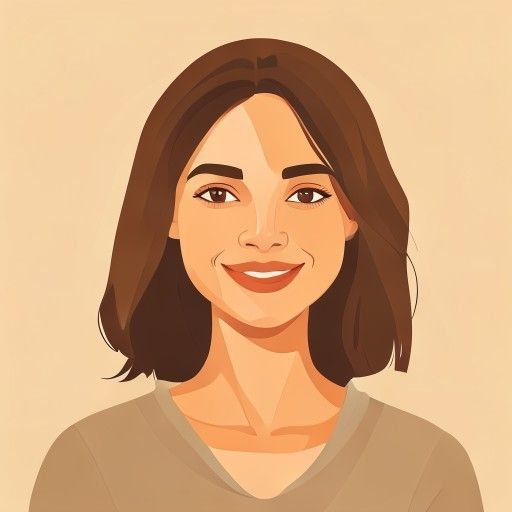
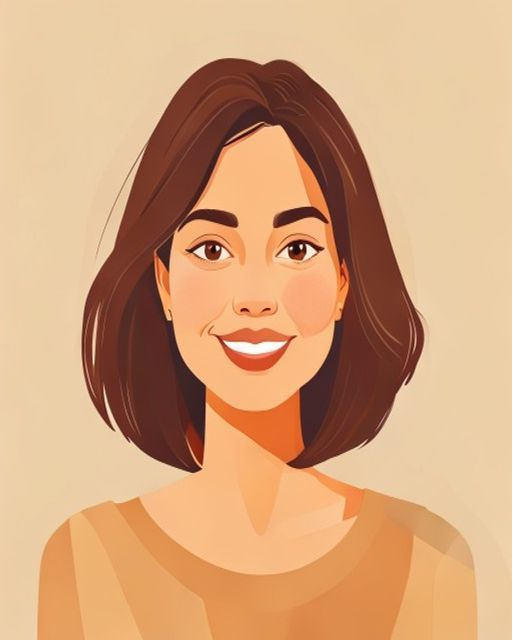
AgentAvatar: tight-crop faces, branded shirt overlay, idle+speaking animations
- Regenerated male/female avatars with tighter face crop (512x640)
- SVG shirt layer: blazer-style with lapel depth using darker gradient
- Idle animation: gentle float (translateY -4px, 3.5s)
- Speaking animation: micro-pulse scale + glow ring boxShadow
- Speaking waveform: 5 staggered bars on shirt area (size >= 64)
- Logo overlay on shirt (size >= 72)

diff --git a/components/avatar/AgentAvatar.tsx b/components/avatar/AgentAvatar.tsx
@@ -3,11 +3,10 @@
 /**
  * AgentAvatar — avatar compuesto en capas:
  *   1. Fondo con tinte de marca
- *   2. Imagen de cara (IA-generada o placeholder DiceBear)
- *   3. Ropa SVG con brandColor
- *   4. Logo del cliente encima de la ropa (opcional)
- *
- * Reemplazar MALE_FACE_URL / FEMALE_FACE_URL con las imágenes definitivas.
+ *   2. Imagen de cara (flat illustration PNG)
+ *   3. Ropa SVG con brandColor (cubre la remera neutral de la imagen)
+ *   4. Logo del cliente sobre la ropa (opcional, size >= 72)
+ *   5. Animación idle (float) + speaking (glow ring + waveform)
  */
 
 interface AgentAvatarProps {
@@ -30,6 +29,10 @@ function adjust(hex: string, amt: number): string {
     .map((v) => v.toString(16).padStart(2, "0"))
     .join("")}`;
 }
+function hexAlpha(hex: string, a: number) {
+  const { r, g, b } = hexToRgb(hex);
+  return `rgba(${r},${g},${b},${a})`;
+}
 
 const MALE_FACE_URL   = "/avatars/male.png";
 const FEMALE_FACE_URL = "/avatars/female.png";
@@ -43,16 +46,30 @@ export default function AgentAvatar({
   className  = "",
 }: AgentAvatarProps) {
   const gid       = brandColor.replace(/[^a-f0-9]/gi, "").slice(0, 6) || "brand";
-  const shirtDark = adjust(brandColor, -40);
+  const shirtDark = adjust(brandColor, -45);
   const bgLight   = adjust(brandColor, 196);
-  const bgMid     = adjust(brandColor, 180);
+  const bgMid     = adjust(brandColor, 182);
   const showLogo  = !!logoUrl && size >= 72;
+  const showWave  = isSpeaking && size >= 64;
   const faceUrl   = gender === "female" ? FEMALE_FACE_URL : MALE_FACE_URL;
+
+  // Glow ring cuando habla
+  const glowShadow = isSpeaking
+    ? `0 0 0 ${Math.round(size * 0.04)}px ${hexAlpha(brandColor, 0.5)}, 0 0 ${Math.round(size * 0.25)}px ${hexAlpha(brandColor, 0.35)}`
+    : undefined;
 
   return (
     <div
       className={`relative inline-flex items-center justify-center rounded-full overflow-hidden ${className}`}
-      style={{ width: size, height: size, flexShrink: 0 }}
+      style={{
+        width: size,
+        height: size,
+        flexShrink: 0,
+        borderRadius: "50%",
+        boxShadow: glowShadow,
+        animation: isSpeaking ? "aa-pulse 1.4s ease-in-out infinite" : "aa-float 3.5s ease-in-out infinite",
+        transition: "box-shadow 0.4s ease",
+      }}
     >
       <svg
         viewBox="0 0 100 100"
@@ -68,10 +85,16 @@ export default function AgentAvatar({
             <stop offset="100%" stopColor={bgMid}   />
           </radialGradient>
 
-          {/* Ropa */}
+          {/* Ropa principal */}
           <linearGradient id={`sh-${gid}`} x1="0%" y1="0%" x2="0%" y2="100%">
             <stop offset="0%"   stopColor={brandColor} />
             <stop offset="100%" stopColor={shirtDark}  />
+          </linearGradient>
+
+          {/* Sombra interior ropa (lapel oscuro) */}
+          <linearGradient id={`sl-${gid}`} x1="0%" y1="0%" x2="0%" y2="100%">
+            <stop offset="0%"   stopColor={shirtDark} />
+            <stop offset="100%" stopColor={adjust(brandColor, -70)} />
           </linearGradient>
 
           {/* Clip circular */}
@@ -79,61 +102,104 @@ export default function AgentAvatar({
             <circle cx="50" cy="50" r="50" />
           </clipPath>
 
-          {/* Clip logo redondeado */}
-          <clipPath id={`logo-${gid}`}>
-            <rect x="33" y="77" width="34" height="18" rx="4" />
+          {/* Clip logo */}
+          <clipPath id={`logo-clip-${gid}`}>
+            <rect x="34" y="78" width="32" height="16" rx="3" />
           </clipPath>
         </defs>
 
         {/* Fondo */}
         <circle cx="50" cy="50" r="50" fill={`url(#bg-${gid})`} />
 
-        {/* Ropa / hombros — se dibuja ANTES de la cara para que quede por debajo */}
-        <path
-          d="M0 87 Q17 70 38 73 L44 83 L50 88 L56 83 L62 73 Q83 70 100 87 L100 100 L0 100Z"
-          fill={`url(#sh-${gid})`}
-        />
-        {/* Solapa V */}
-        <path
-          d="M44 83 Q50 92 56 83"
-          fill="none" stroke={shirtDark} strokeWidth="1.5" strokeLinecap="round" opacity="0.4"
-        />
-
-        {/* Imagen de cara (cubre el círculo completo, se clipea) */}
+        {/* Imagen de cara */}
         <image
           href={faceUrl}
-          x="0" y="-4"
-          width="100" height="100"
+          x="0" y="-8"
+          width="100" height="108"
           clipPath={`url(#clip-${gid})`}
-          preserveAspectRatio="xMidYMid slice"
+          preserveAspectRatio="xMidYMid meet"
         />
 
-        {/* Logo del cliente sobre la ropa */}
+        {/* ── Ropa: cubre la zona inferior de la imagen ────────────────── */}
+
+        {/* Cuerpo principal de la camisa */}
+        <path
+          d="M-2 93 Q16 78 38 81 L44 88 L50 93 L56 88 L62 81 Q84 78 102 93 L102 102 L-2 102Z"
+          fill={`url(#sh-${gid})`}
+        />
+
+        {/* Solapa izquierda (más oscura, da profundidad de saco) */}
+        <path
+          d="M-2 93 Q16 78 38 81 L44 88 L50 93 Q40 88 28 82 Q14 79 -2 93Z"
+          fill={`url(#sl-${gid})`}
+          opacity="0.55"
+        />
+
+        {/* Solapa derecha */}
+        <path
+          d="M102 93 Q84 78 62 81 L56 88 L50 93 Q60 88 72 82 Q86 79 102 93Z"
+          fill={`url(#sl-${gid})`}
+          opacity="0.55"
+        />
+
+        {/* Línea de cuello / collar */}
+        <path
+          d="M44 88 Q50 97 56 88"
+          fill="none"
+          stroke={adjust(brandColor, -60)}
+          strokeWidth="1.2"
+          strokeLinecap="round"
+          opacity="0.4"
+        />
+
+        {/* Sombra de cuello sobre la ropa */}
+        <ellipse cx="50" cy="82" rx="10" ry="3.5" fill="rgba(0,0,0,0.10)" />
+
+        {/* ── Logo del cliente ──────────────────────────────────────────── */}
         {showLogo && (
           <image
             href={logoUrl!}
-            x="33" y="77"
-            width="34" height="18"
-            clipPath={`url(#logo-${gid})`}
+            x="34" y="78"
+            width="32" height="16"
+            clipPath={`url(#logo-clip-${gid})`}
             preserveAspectRatio="xMidYMid meet"
           />
         )}
 
-        {/* Boca animada cuando habla (encima de la imagen) */}
-        {isSpeaking && (
-          <ellipse
-            cx="50" cy="62"
-            rx="6" ry="2.8"
-            fill="rgba(160,80,60,0.55)"
-            style={{ animation: "aa-talk 0.25s ease-in-out infinite alternate", transformOrigin: "50px 62px" }}
-          />
+        {/* ── Waveform bars cuando habla ───────────────────────────────── */}
+        {showWave && (
+          <g>
+            <rect x="36" y="88" width="3.5" height="5"   rx="1.5" fill="white" opacity="0.85"
+              style={{ animation: "aa-bar 0.7s ease-in-out 0.00s infinite alternate", transformOrigin: "37.75px 93px" }} />
+            <rect x="42" y="86" width="3.5" height="7"   rx="1.5" fill="white" opacity="0.9"
+              style={{ animation: "aa-bar 0.7s ease-in-out 0.14s infinite alternate", transformOrigin: "43.75px 93px" }} />
+            <rect x="48" y="87" width="3.5" height="6"   rx="1.5" fill="white" opacity="0.9"
+              style={{ animation: "aa-bar 0.7s ease-in-out 0.07s infinite alternate", transformOrigin: "49.75px 93px" }} />
+            <rect x="54" y="85" width="3.5" height="8"   rx="1.5" fill="white" opacity="0.9"
+              style={{ animation: "aa-bar 0.7s ease-in-out 0.21s infinite alternate", transformOrigin: "55.75px 93px" }} />
+            <rect x="60" y="88" width="3.5" height="5"   rx="1.5" fill="white" opacity="0.85"
+              style={{ animation: "aa-bar 0.7s ease-in-out 0.35s infinite alternate", transformOrigin: "61.75px 93px" }} />
+          </g>
         )}
       </svg>
 
       <style>{`
-        @keyframes aa-talk {
-          from { transform: scaleY(0.5); }
-          to   { transform: scaleY(1.8); }
+        /* Idle: float suave */
+        @keyframes aa-float {
+          0%, 100% { transform: translateY(0px); }
+          50%       { transform: translateY(-4px); }
+        }
+
+        /* Speaking: micro-pulso */
+        @keyframes aa-pulse {
+          0%, 100% { transform: scale(1); }
+          50%       { transform: scale(1.025); }
+        }
+
+        /* Waveform bars */
+        @keyframes aa-bar {
+          from { transform: scaleY(0.35); }
+          to   { transform: scaleY(1); }
         }
       `}</style>
     </div>
